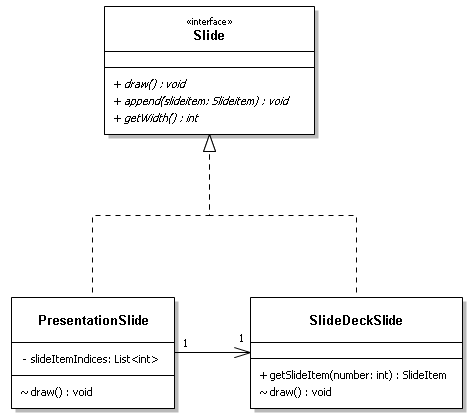
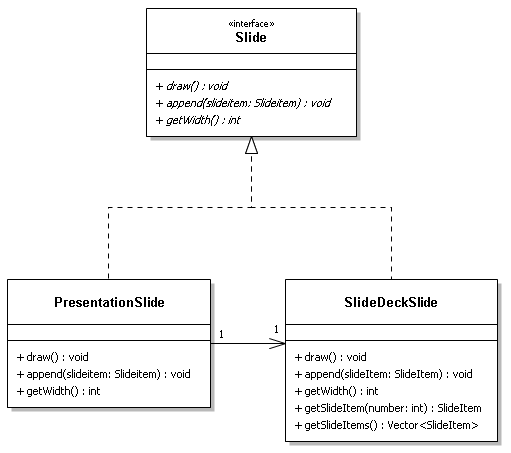
Mogelijke uitbreiding aangepast

diff --git a/Verslag/verslag_eindopdracht.tex b/Verslag/verslag_eindopdracht.tex
@@ -131,7 +131,7 @@ Omdat bij het selecteren van een andere presentatie we niet willen dat alle (sli
 \begin{description}
 \item[Bepaalde delen laten zien] Het laten zien van bepaalde delen van een slide is gegeven als een mogelijke verandering. Dit is te implementeren door een nieuwe concrete klasse te definiëren die de Slide interface implementeert. Door deze klasse een associatie te geven naar de SlideDeckSlide kan de klasse de SlideItems benaderen. De implementatie van de draw() methode hoeft dan alleen deze specifieke SlideItems op te halen. De SlideFactory zal wel aangepast moeten worden om de nieuwe implementatie als Slide terug te kunnen geven. Zo ook de Reader objecten omdat dit ook een wijziging is in hoe de presentaties zijn opgeslagen. Zie Figure \ref{fig:mogelijkeuitbreiding}, de concrete klasse is hier PresentationSlide genoemd.
 \begin{figure}[htbp]
-\caption{Mogelijke uitbreiding}
+\caption{Mogelijke uitbreiding (specificatie)}
 \centering
 \includegraphics[width=0.75\textwidth]{MogelijkeUitbreiding.PNG}
 \label{fig:mogelijkeuitbreiding}
